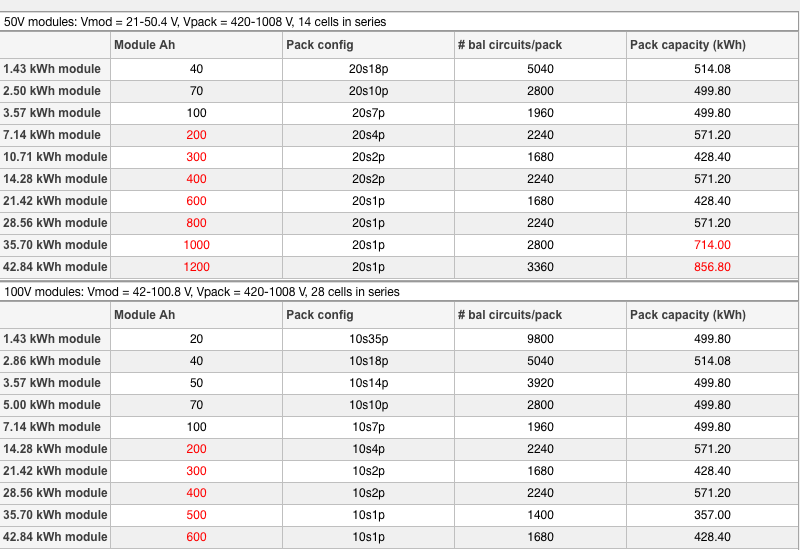
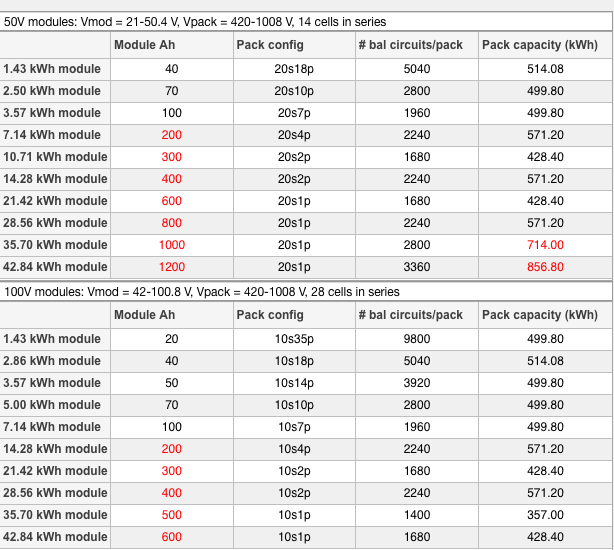
reproduced tables and saved an image of them in packcompare_chemistries.png

diff --git a/pack_compare_ac_v5.m b/pack_compare_ac_v5.m
@@ -33,14 +33,14 @@ nDAB = round(packkWh ./ kWhDAB);
 packkWh_actual = kWhDAB .* nDAB;
 inputV_DAB = moduleVmax .* nModSer_DAB; % base converter ratio on min or max battery voltage?
 ratio_DAB = packVmax ./ inputV_DAB;
-
+nBalPack = nCellSer .* nModSer_DAB .* nModPar_DAB .* nDAB;
 nMod_t = cell(size(nModSer_DAB));
 for i = 1:size(nMod_t)
     nMod_t{i} = sprintf('%gs%gp', nModSer_DAB(i), nModPar_DAB(i));
 end
     
-C = {string(nMod_t), packkWh_actual, nDAB, ratio_DAB, kWhDAB};
+C = {string(nMod_t), packkWh_actual, nDAB, ratio_DAB, kWhDAB, nBalPack};
 T = table(C{:});
-T.Properties.VariableNames = {'# modules/converter', 'Pack kWh', '# Converters', 'Converter ratio', 'Converter kW'};
-title = sprintf('Dedicated converter vs. shared converters comparison for ',
+T.Properties.VariableNames = {'# modules/converter', 'Pack kWh', '# Converters', 'Converter ratio', 'Converter kW', '# balancing circuits'};
+%title = sprintf('Dedicated converter vs. shared converters comparison for ',
 disp(T)

diff --git a/pack_compare_ac_v6.m b/pack_compare_ac_v6.m
@@ -8,7 +8,8 @@ modulekWh = 3.5; % fixing module capacity to ~3.5 kWh
 balAh = 100; % limit each balancing circuit to no more than 100 Ah
 cellAh = [10; 50; 100]; % consider diff cell sizes
 
-packV = [680; 1000];
+packV = [680; 1000]; % AC case
+%packV = 50; % DC case
 packVmax = max(packV);
 packkWh_eol = 400;
 packpct_eol = 0.8;
@@ -34,8 +35,8 @@ moduleAh_actual = nCellPar .* cellAh;
 nBalModule = nCellSer .* ceil(moduleAh_actual ./ balAh);
 modulekWh_actual = moduleVnom .* moduleAh_actual / 1000; % Andrew used this mean cellV (cellVnom) to compute modulekWh, not sure why
 
-nModSer = ceil(packVmax ./ moduleVmax);
-nModPar = ceil(packkWh ./ (nModSer .* modulekWh_actual));
+nModSer = floor(packVmax ./ moduleVmax);
+nModPar = round(packkWh ./ (nModSer .* modulekWh_actual));
 
 packV_actual = nModSer .* moduleV_actual;
 packVmax_actual = max(packV_actual, [], 2);

diff --git a/pack_compare_dc_v3.m b/pack_compare_dc_v3.m
@@ -14,7 +14,9 @@ packkWh_eol = 400;
 packpct_eol = 0.8;
 packkWh = packkWh_eol / packpct_eol;
 
-cellV = [2.5 3.65] % use mean cellV to compute modulekWh?
+%cellV = [2.5 3.65] % K2 LFP/Graphite
+%cellV = [1.5 2.9]; % LMO/LTO
+cellV = [1.2 2.5]; % LFP/LTO
 cellVmax = max(cellV);
 cellVnom = mean(cellV,2);
 
@@ -29,7 +31,7 @@ modulekWh_actual = moduleVnom .* balAh / 1000;
 nModSer_DAB = [1;2;3;1;1]; % number of series modules that share a converter
 nModPar_DAB = [1;1;1;2;3];
 kWhDAB = modulekWh_actual .* nModSer_DAB .* nModPar_DAB;
-nDAB = round(packkWh ./ kWhDAB);
+nDAB = ceil(packkWh ./ kWhDAB);
 packkWh_actual = kWhDAB .* nDAB;
 inputV_DAB = moduleVmax .* nModSer_DAB; % base converter ratio on min or max battery voltage?
 ratio_DAB = packVmax ./ inputV_DAB;
